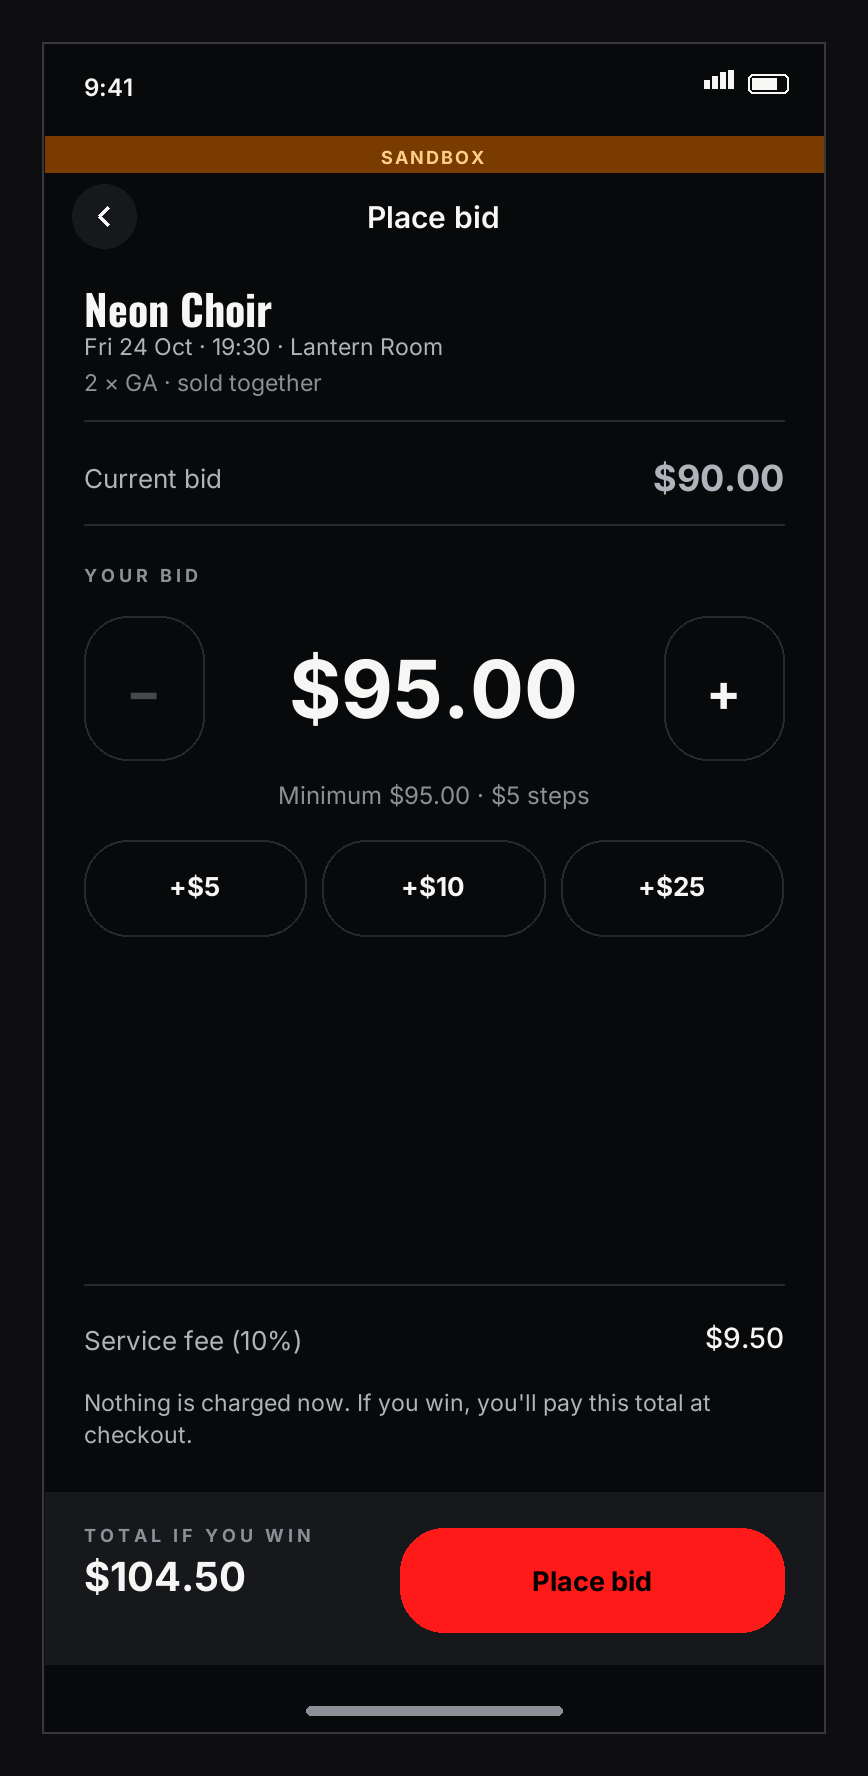
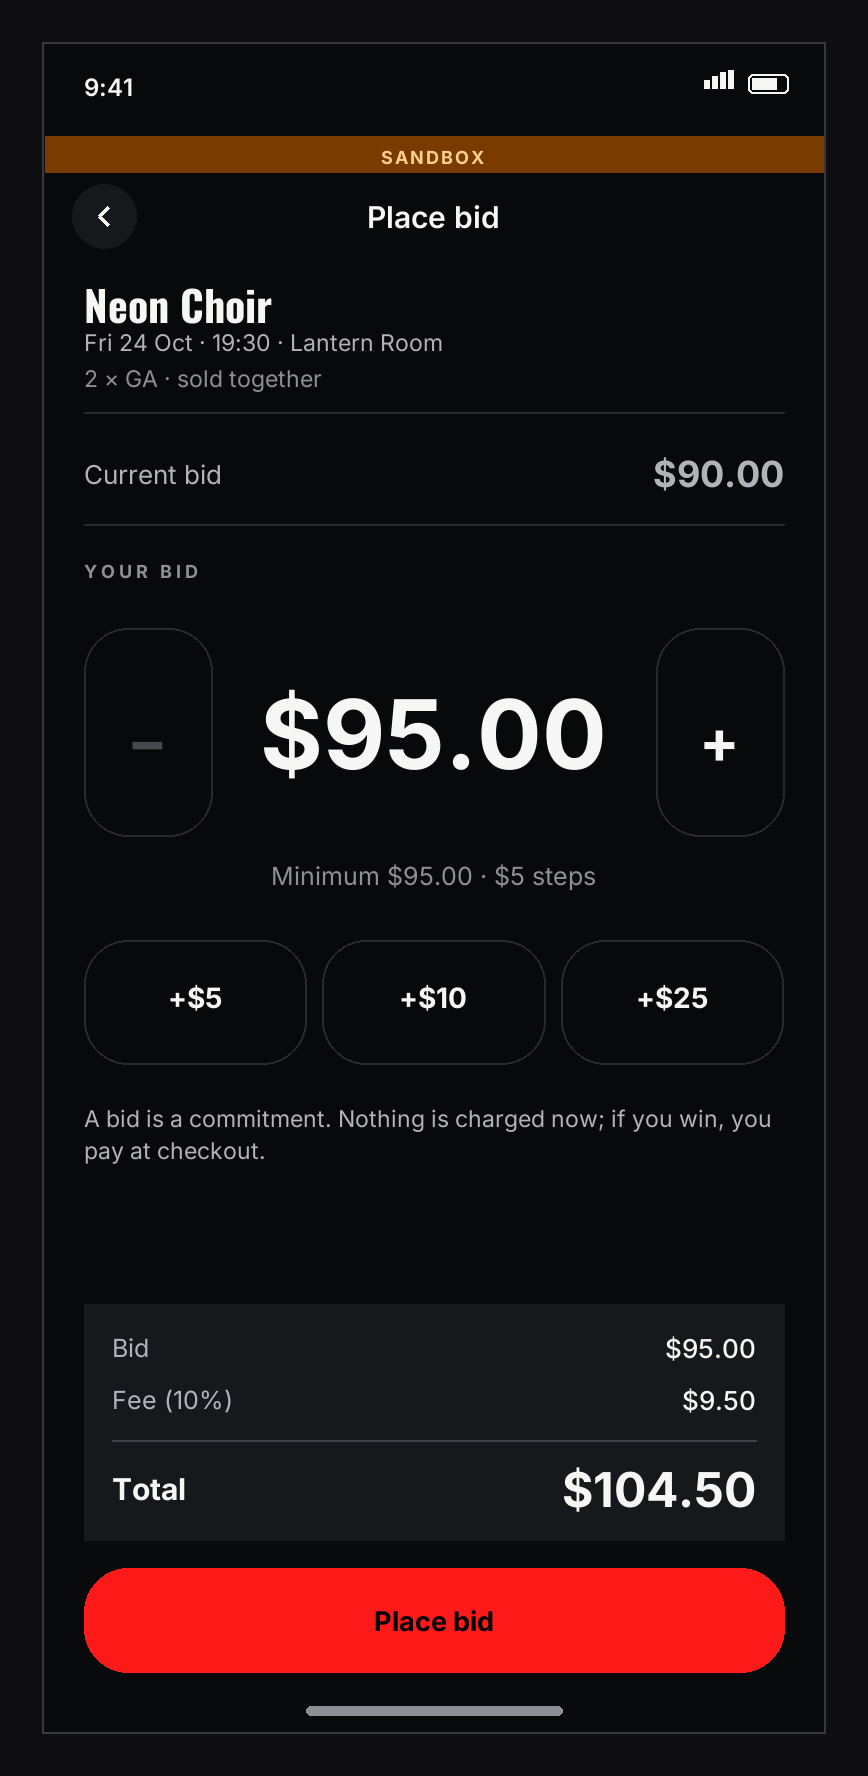
design(v3): bid summary — the owner's final three-row direction; R-1 resolved
Immediately above "Place bid", exactly three rows: Bid $95.00 / Fee (10%)
$9.50 / Total $104.50, all three from the existing calculation and all three
moving with the stepper. Total is visually strongest, above a rule. The button
sits directly below the summary, full width, labelled "Place bid".

REMOVED: the sticky "Total if you win" amount beside the button (the summary's
Total is now the only total), the isolated service-fee row (it is the summary's
second row), and the large empty gap — the bid control grew into it and the
summary + button anchor the foot of the screen.

Nothing goes inside the summary block: no fourth figure, no "all-in" caption,
no explanatory sentence. The bid repeating there is deliberate, per the
instruction.

R-1 RESOLVED: "Current bid $90.00" is now in the same unit as the stepper
($95.00) and the minimum. C's build compared a fee-inclusive $110.00 reference
against a fee-exclusive $105.00 input, which read as a lower bid. C's
Starting/Current switch at zero bids is kept.

The commitment explanation stays once, outside the summary: "A bid is a
commitment. Nothing is charged now; if you win, you pay at checkout." Placing a
bid charges nobody — the winner gets pay_now, which only opens checkout.

For C: preserve calculations, validation, single-flight submission and
accessibility; the summary rows need labels so a screen reader reads all three.
Check small screens, large text and keyboard visibility now that the summary
[…]

diff --git a/docs/product-v3/V3_PACKAGE_7_COPY_CORRECTION.md b/docs/product-v3/V3_PACKAGE_7_COPY_CORRECTION.md
@@ -99,6 +99,60 @@ Also on that file: remove the `compareSub` all-in captions, the `bigAmount`/`ste
 
 ---
 
+## 2b · Bid summary — the owner's final direction (2026-09-23), delivered
+
+**Artifacts:** `pkg7-bid-after.png` · `pkg7-bid-after-raised.png` · `pkg7-bid-after-annotated.png`.
+**This supersedes §2 wherever the two differ.**
+
+### The screen, top to bottom
+
+Identity + quantity → **Current bid $90.00** → the editable bid (stepper, minimum hint, quick-add) →
+**one commitment sentence** → **the three-row summary** → **`Place bid`**.
+
+### The summary — exactly three rows, nothing else
+
+| Row | Weight |
+|---|---|
+| Bid | `$95.00` |
+| Fee (10%) | `$9.50` |
+| **Total** | **`$104.50` — visually strongest, above a rule** |
+
+All three derive from the existing calculation and move with the stepper. **The bid appears here a second
+time deliberately**, per the owner's instruction. Nothing else goes inside the block: no fourth figure, no
+*"all-in"* caption, no explanatory sentence.
+
+### What was removed
+
+| Removed | |
+|---|---|
+| The sticky **"Total if you win"** amount beside the button | The summary's Total is the only total |
+| The isolated service-fee row | It is now the summary's second row |
+| The large empty gap | The bid control grew into it and the summary + button anchor the foot of the screen |
+
+`Place bid` sits **directly below the summary**, full width, with nothing beside it.
+
+### R-1 resolved — the reference is a bid, not an all-in
+
+**`Current bid $90.00`** is the same unit as the stepper (`$95.00`) and the minimum. C's build showed
+`Current bid · $110.00 all-in` against a `$105.00` stepper, which read as a *lower* bid. **Keep C's
+`Starting bid` when `bid_count === 0`.** The fee and the final total are supplied by the summary.
+
+### The commitment sentence — once, outside the summary
+
+> **"A bid is a commitment. Nothing is charged now; if you win, you pay at checkout."**
+
+Placing a bid charges nobody: the winner receives `pay_now`, which only opens `/checkout/{id}`, where
+`Pay {total}` is the only charging control.
+
+### For C
+
+Preserve calculations, validation (`canPlaceBid`, the *"Bid too low"* alert), single-flight submission and
+accessibility. The summary rows need their own labels so a screen reader reads *"Bid $95.00, Fee 10% $9.50,
+Total $104.50"*. **Check small screens, large text and keyboard visibility** — with the summary and button now
+sharing the foot of the screen, the keyboard must not cover either.
+
+---
+
 ## 3 · What is NOT being cut anywhere
 
 - Price, quantity, and which listing you are acting on.
